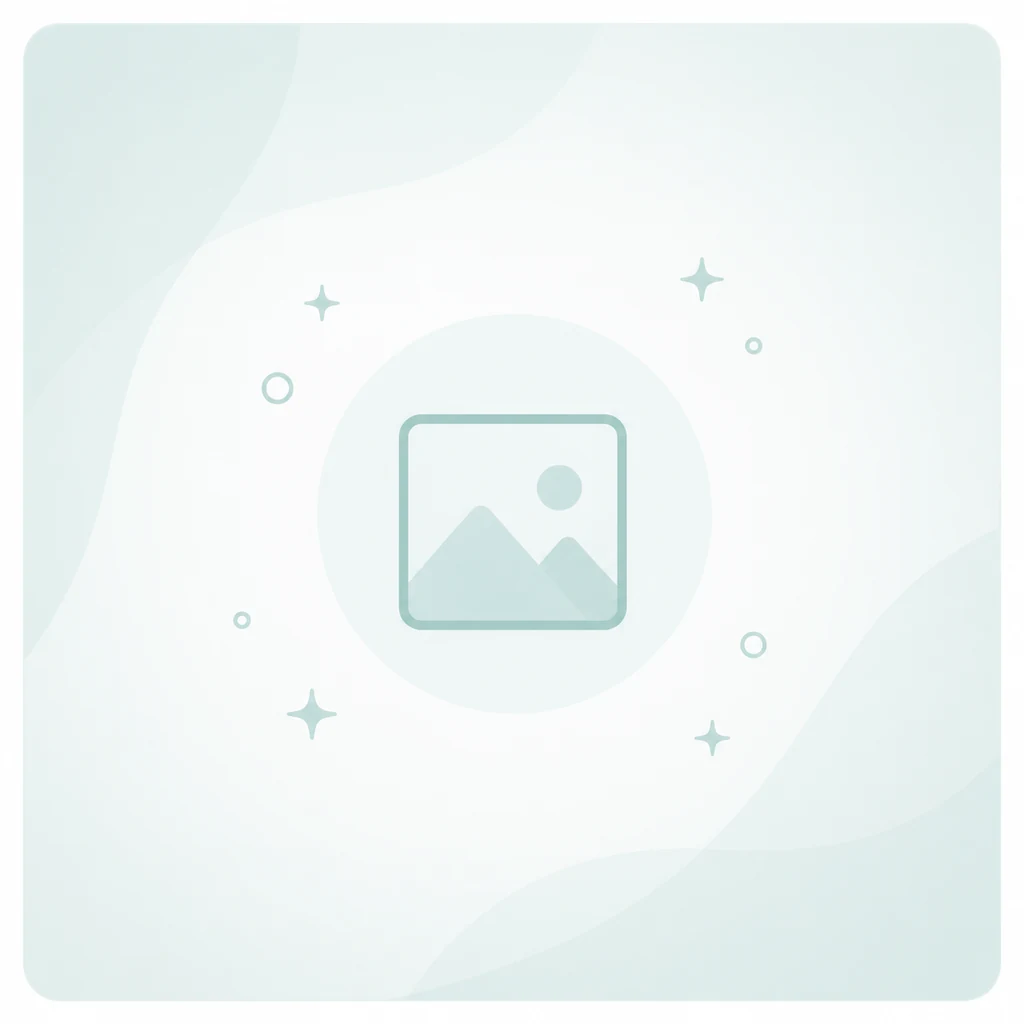
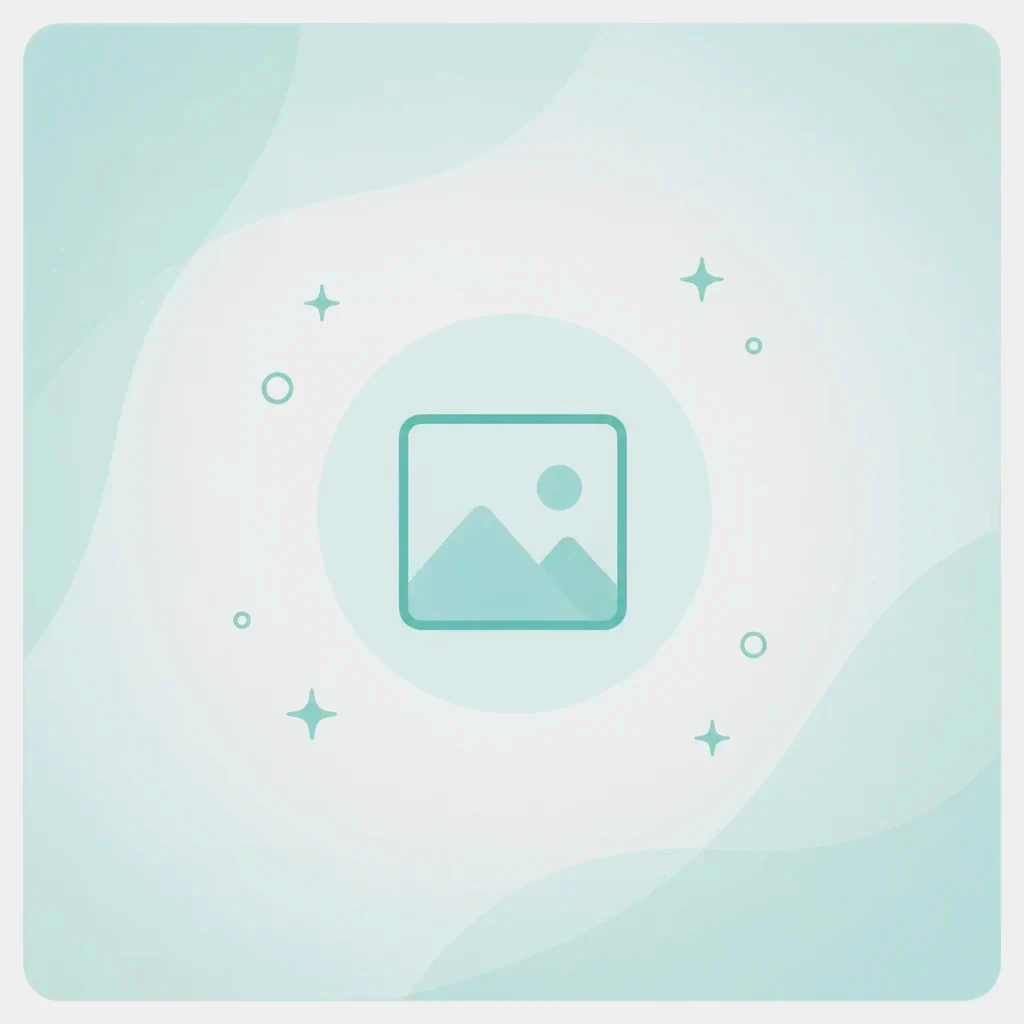
Fix home page issues found in responsive audit
- Cookie banner: bump the mobile bottom offset from 64px to 76px so it
  no longer paints over the top ~5px of the fixed bottom nav bar
  (.ef-bottom-nav renders at ~69px, not the 64px the CSS assumed).
- Hero subcopy: replace the mobile -webkit-line-clamp: 2 truncation
  (which cut off mid-sentence, e.g. "...Add…") with a clean sentence
  boundary — the first sentence always shows in full, the rest is
  hidden below 640px instead of being hard-clipped.
- Package placeholder image/SVG: boost contrast and saturation so the
  "no photo" placeholder reads as a placeholder instead of blending
  into a white card and looking like a broken/blank image.
- Homepage category grid: AV & Lighting, Transport, and Cakes &
  Florals no longer reuse unrelated collage photos (a violin, a manor
  house, a catering plate) that actively misrepresent the category —
  they now show the neutral placeholder until real photos exist.
- Carousel component: aria-label is now configurable instead of being
  hardcoded to "Featured packages carousel" on every instance; the
  Spotlight carousel now gets its own distinct label.
- Static/dev fixture (scripts/serve-static.js): /api/packages/spotlight
  now returns the mock packages in a different order than /featured,
  so the two homepage carousels don't render as visual duplicates in
  local/test environments (production's real queries already differ).

Carousel initial-layout race (mobile spotlight/featured card
[…]

diff --git a/public/assets/js/pages/home-init.js b/public/assets/js/pages/home-init.js
@@ -182,6 +182,7 @@ document.addEventListener('DOMContentLoaded', () => {
     endpoint: '/api/packages/featured',
     containerId: 'featured-packages',
     emptyMessage: 'No featured packages available yet.',
+    ariaLabel: 'Featured packages carousel',
   });
 
   // Load spotlight packages
@@ -189,6 +190,7 @@ document.addEventListener('DOMContentLoaded', () => {
     endpoint: '/api/packages/spotlight',
     containerId: 'spotlight-packages',
     emptyMessage: 'No spotlight packages available yet.',
+    ariaLabel: 'Spotlight packages carousel',
   });
 
   // Show notification bell for logged-in users using AuthStateManager
@@ -373,8 +375,9 @@ window.addEventListener('offline', () => {
  * @param {string} options.endpoint - API endpoint to fetch packages from
  * @param {string} options.containerId - DOM container ID for carousel
  * @param {string} options.emptyMessage - Message to show when no packages found
+ * @param {string} options.ariaLabel - Accessible name for the carousel region
  */
-async function loadPackagesCarousel({ endpoint, containerId, emptyMessage }) {
+async function loadPackagesCarousel({ endpoint, containerId, emptyMessage, ariaLabel }) {
   const container = document.getElementById(containerId);
   if (!container) {
     if (isDevelopmentEnvironment()) {
@@ -388,7 +391,7 @@ async function loadPackagesCarousel({ endpoint, containerId, emptyMessage }) {
     title: 'Could not load packages',
     message: 'Please refresh the page to try again.',
     showRetry: true,
-    retryCallback: () => loadPackagesCarousel({ endpoint, containerId, emptyMessage }),
+    retryCallback: () => loadPackagesCarousel({ endpoint, containerId, emptyMessage, ariaLabel }),
   });
 
   // Show loading skeleton
@@ -440,6 +443,7 @@ async function loadPackagesCarousel({ endpoint, containerId, emptyMessage }) {
         itemsPerViewMobile: 1,
         autoScroll: true,
         autoScrollInterval: 5000,
+        ariaLabel,
       });
       carousel.setItems(data.items);
     } catch (error) {

diff --git a/public/assets/js/pages/homepage-approved-lower.js b/public/assets/js/pages/homepage-approved-lower.js
@@ -95,23 +95,31 @@
       description: 'Decorations, flowers and styling.',
     },
     {
+      // No AV/lighting photo exists in this asset set yet — reusing the
+      // Entertainment collage photo (a violinist) here was actively
+      // misleading rather than merely generic, so this shows the neutral
+      // "no photo" placeholder until a real one is available.
       title: 'AV & Lighting',
       category: 'Music/DJ',
-      image: '/assets/images/collage-entertainment.jpg',
+      image: '/assets/images/placeholders/package-event.svg',
       icon: 'av',
       description: 'Sound systems and lighting equipment.',
     },
     {
+      // Same reasoning: no Transport photo exists, and the Venues collage
+      // photo (a manor house) doesn't depict transport.
       title: 'Transport',
       category: 'Transport',
-      image: '/assets/images/collage-venue.jpg',
+      image: '/assets/images/placeholders/package-event.svg',
       icon: 'transport',
       description: 'Cars and coaches for you and your guests.',
     },
     {
+      // Same reasoning: no Cakes/Florals photo exists, and the Catering
+      // collage photo doesn't depict either.
       title: 'Cakes & Florals',
       category: 'Cake',
-      image: '/assets/images/collage-catering.jpg',
+      image: '/assets/images/placeholders/package-event.svg',
       icon: 'cake',
       description: 'Celebration cakes and floral arrangements.',
     },

diff --git a/scripts/serve-static.js b/scripts/serve-static.js
@@ -294,7 +294,15 @@ const mockCarouselPackages = [
 ];
 
 app.get('/api/packages/spotlight', (req, res) => {
-  res.json({ items: mockCarouselPackages });
+  // Reuses the same fixture objects as /featured (so both endpoints still
+  // exercise all three image-resolution cases the e2e spec at
+  // e2e/homepage-carousel-image-resolution.spec.js checks for), but in a
+  // different order. In production these two endpoints already draw from
+  // different queries (featured=true vs an hour-seeded rotation over the
+  // approved pool — see routes/suppliers.js) and rarely match; returning
+  // the identical order here made the homepage's Featured and Spotlight
+  // carousels look like duplicated content in this static/dev fixture.
+  res.json({ items: [...mockCarouselPackages].reverse() });
 });
 
 app.get('/api/packages/featured', (req, res) => {

diff --git a/public/assets/js/components/carousel.js b/public/assets/js/components/carousel.js
@@ -28,6 +28,7 @@ class Carousel {
       itemsPerViewMobile: options.itemsPerViewMobile || 1,
       autoScroll: options.autoScroll || false,
       autoScrollInterval: options.autoScrollInterval || 5000,
+      ariaLabel: options.ariaLabel || 'Featured packages carousel',
     };
 
     this.items = [];
@@ -286,7 +287,7 @@ class Carousel {
     // Create carousel structure
     const html = `
       <button class="carousel-prev" aria-label="Previous">‹</button>
-      <div class="carousel-container" tabindex="0" role="region" aria-label="Featured packages carousel">
+      <div class="carousel-container" tabindex="0" role="region" aria-label="${this.options.ariaLabel}">
         ${this.items.map(item => this._renderItem(item)).join('')}
       </div>
       <button class="carousel-next" aria-label="Next">›</button>

diff --git a/public/index.html b/public/index.html
@@ -452,8 +452,13 @@
 
             <!-- Subcopy -->
             <p class="hero-modern-subcopy ef-fade-up delay-3">
-              Simplify your event planning: find venues, catering, entertainment and more. Add options to your plan instantly,
-              message suppliers when you're ready, and keep budgets, notes and decisions together.
+              <span class="hero-modern-subcopy__primary"
+                >Simplify your event planning: find venues, catering, entertainment and more.</span
+              >
+              <span class="hero-modern-subcopy__more"
+                >Add options to your plan instantly, message suppliers when you're ready, and keep
+                budgets, notes and decisions together.</span
+              >
             </p>
 
             <!-- New Unified Search Component -->

diff --git a/public/assets/css/components.css b/public/assets/css/components.css
@@ -1750,9 +1750,12 @@ body.ef-cookie-banner-open #ef-pwa-install-banner {
 /* Responsive design */
 @media (max-width: 767px) {
   .cookie-consent-banner {
-    /* Sit above the fixed bottom navigation bar (~64px) */
-    bottom: 64px;
-    bottom: calc(64px + env(safe-area-inset-bottom, 0px));
+    /* Sit above the fixed bottom navigation bar. .ef-bottom-nav (navbar.css)
+       renders at ~69px tall (10px+12px padding plus icon content), so the
+       previous 64px estimate left a ~5px sliver where this banner's
+       higher z-index painted over the nav's top edge. */
+    bottom: 76px;
+    bottom: calc(76px + env(safe-area-inset-bottom, 0px));
     width: calc(100vw - 1rem);
     border-radius: 14px;
   }

diff --git a/public/assets/css/hero-modern.css b/public/assets/css/hero-modern.css
@@ -689,12 +689,14 @@
 
   .hero-modern-subcopy {
     font-size: 16px;
-    /* Truncate subcopy on mobile for text-lite version */
-    display: -webkit-box;
-    -webkit-line-clamp: 2;
-    -webkit-box-orient: vertical;
-    overflow: hidden;
     line-height: 1.5;
+  }
+
+  /* Mobile text-lite version: show only the first sentence. Unlike the old
+     -webkit-line-clamp: 2, this always ends on a full stop instead of
+     mid-word wherever the second line happened to wrap. */
+  .hero-modern-subcopy__more {
+    display: none;
   }
 
   .hero-trust-item {
